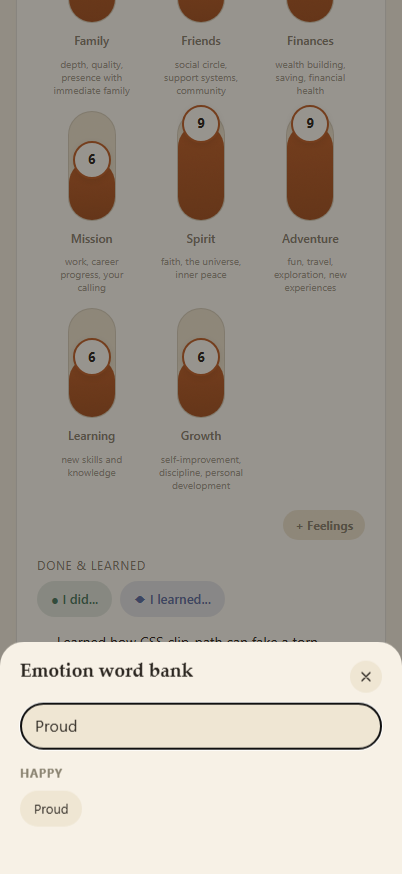
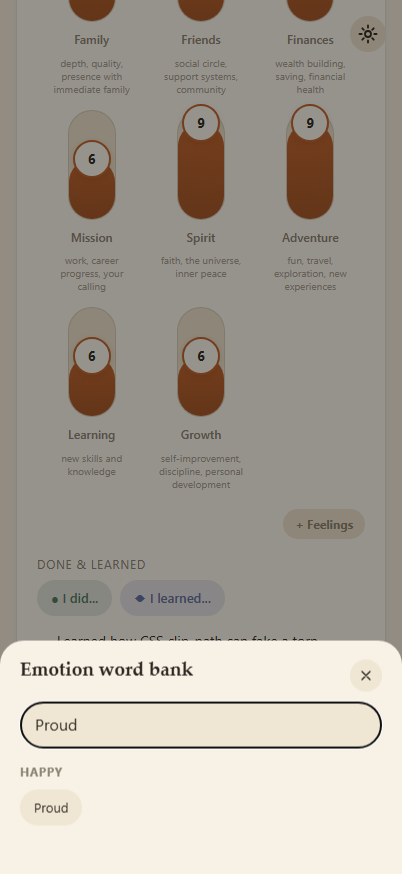
v2.2.2: Settings gear stays fixed on scroll
The gear was injected into each view-slot's topbar; the slot's transform
trapped position:fixed, so the button scrolled away with the page. Moved it
to a single persistent button on document.body (fixed top-right, hidden on
the writing view + Settings), so it stays visible while content scrolls.
Removed the now-dead wireHeaderGear injector. Version -> 2.2.2, sw cache
-> momentum-v2-4. Verified 98/98; gear confirmed fixed after scroll.

Claude-Session: https://claude.ai/code/session_01LwL4mP3FPJfFNKsVsGE2Vw

diff --git a/js/app.js b/js/app.js
@@ -27,7 +27,7 @@ const RENDERERS = {
 // Review/Settings have no capture action either -- no FAB on any of those three.
 const FAB_TABS = new Set(['today', 'journal', 'tasks']);
 
-let viewHost, tabBarEl, fabEl;
+let viewHost, tabBarEl, fabEl, appGearEl;
 let currentTab = null;
 
 function parseHash() {
@@ -56,6 +56,15 @@ async function boot() {
 
   fabEl = renderFab(handleFabAction);
   document.body.appendChild(fabEl);
+
+  // Persistent Settings gear on document.body -- kept OUT of the view-slots because their
+  // transform traps position:fixed. Stays docked top-right while page content scrolls.
+  appGearEl = document.createElement('button');
+  appGearEl.className = 'icon-btn app-gear topbar__gear';
+  appGearEl.setAttribute('aria-label', 'Settings');
+  appGearEl.innerHTML = iconGear();
+  appGearEl.addEventListener('click', () => { location.hash = '#/settings'; });
+  document.body.appendChild(appGearEl);
 
   on('settings-changed', async () => { applyTheme(await getSettings()); });
 
@@ -130,10 +139,9 @@ async function route() {
   incoming.classList.toggle('view-slot--full', isJournalWrite);
   currentTab = resolvedTab;
 
-  // Every view except the immersive writing screen and Settings itself gets a gear
-  // button wired into its topbar, top-right -- one shared implementation instead of
-  // duplicating the button/markup across 5 view files (v2.2: Settings off the tab bar).
-  if (!isJournalWrite && resolvedTab !== 'settings') wireHeaderGear(incoming);
+  // The persistent gear (on document.body) hides on the immersive writing screen and on
+  // Settings itself; everywhere else it stays fixed top-right, even while content scrolls.
+  appGearEl.classList.toggle('is-hidden', isJournalWrite || resolvedTab === 'settings');
 
   // Strip the one-shot action param from the URL so a reload doesn't re-trigger it
   // (segment/write/date are not one-shot, so preserve them if present).
@@ -145,17 +153,6 @@ async function route() {
     ].filter(Boolean).join('&');
     history.replaceState(null, '', `#/${resolvedTab}${kept ? '?' + kept : ''}`);
   }
-}
-
-function wireHeaderGear(incoming) {
-  const topbar = incoming.querySelector('.topbar');
-  if (!topbar) return;
-  const btn = document.createElement('button');
-  btn.className = 'icon-btn topbar__gear';
-  btn.setAttribute('aria-label', 'Settings');
-  btn.innerHTML = iconGear();
-  btn.addEventListener('click', () => { location.hash = '#/settings'; });
-  topbar.appendChild(btn);
 }
 
 boot();

diff --git a/css/styles.css b/css/styles.css
@@ -135,17 +135,18 @@ body::before {
   position: relative;
   padding: calc(20px + var(--safe-top)) 56px 8px 20px;
 }
-/* Gear button, injected by app.js into every view's topbar except Settings itself and
-   the immersive journal-writing screen (v2.2 -- Settings moved off the tab bar).
-   Doubled-up selector (.icon-btn.topbar__gear) so this wins specificity over the later
-   ".icon-btn { position: relative }" tap-target-expansion rule -- otherwise that rule
-   (same 1-class specificity, defined after this one) clobbers position:absolute and the
-   button falls into normal flow instead of docking to the top-right corner. */
-.icon-btn.topbar__gear {
-  position: absolute;
+/* Settings gear: a single persistent button on document.body (v2.2.2). Kept OUT of the
+   view-slots because their transform would trap position:fixed; on the body it stays
+   docked top-right while page content scrolls. app.js toggles .is-hidden on the immersive
+   writing screen and on Settings itself. Two-class selector so it wins over the later
+   ".icon-btn { position: relative }" tap-target rule (same 1-class specificity). */
+.icon-btn.app-gear {
+  position: fixed;
   top: calc(16px + var(--safe-top));
   right: calc(16px + var(--safe-right));
+  z-index: 30;
 }
+.app-gear.is-hidden { display: none; }
 .topbar__eyebrow {
   font-size: 12px;
   letter-spacing: 0.08em;

diff --git a/sw.js b/sw.js
@@ -1,7 +1,7 @@
 // sw.js -- precaches the full app shell + vendor libs so Momentum works completely
 // offline. Cache-first for everything precached; network fallback (same-origin only,
 // this app makes no external calls) for anything else.
-const CACHE_NAME = 'momentum-v2-3';
+const CACHE_NAME = 'momentum-v2-4';
 const PRECACHE_URLS = [
   './',
   './index.html',

diff --git a/js/version.js b/js/version.js
@@ -1,4 +1,4 @@
 // Single source of truth for the app version. Shown in Settings so you can always
 // tell which build your device is running, and bumped on every deploy. Keep the
 // sw.js CACHE_NAME bumped in lockstep so the service worker re-caches new assets.
-export const APP_VERSION = '2.2.1';
+export const APP_VERSION = '2.2.2';
